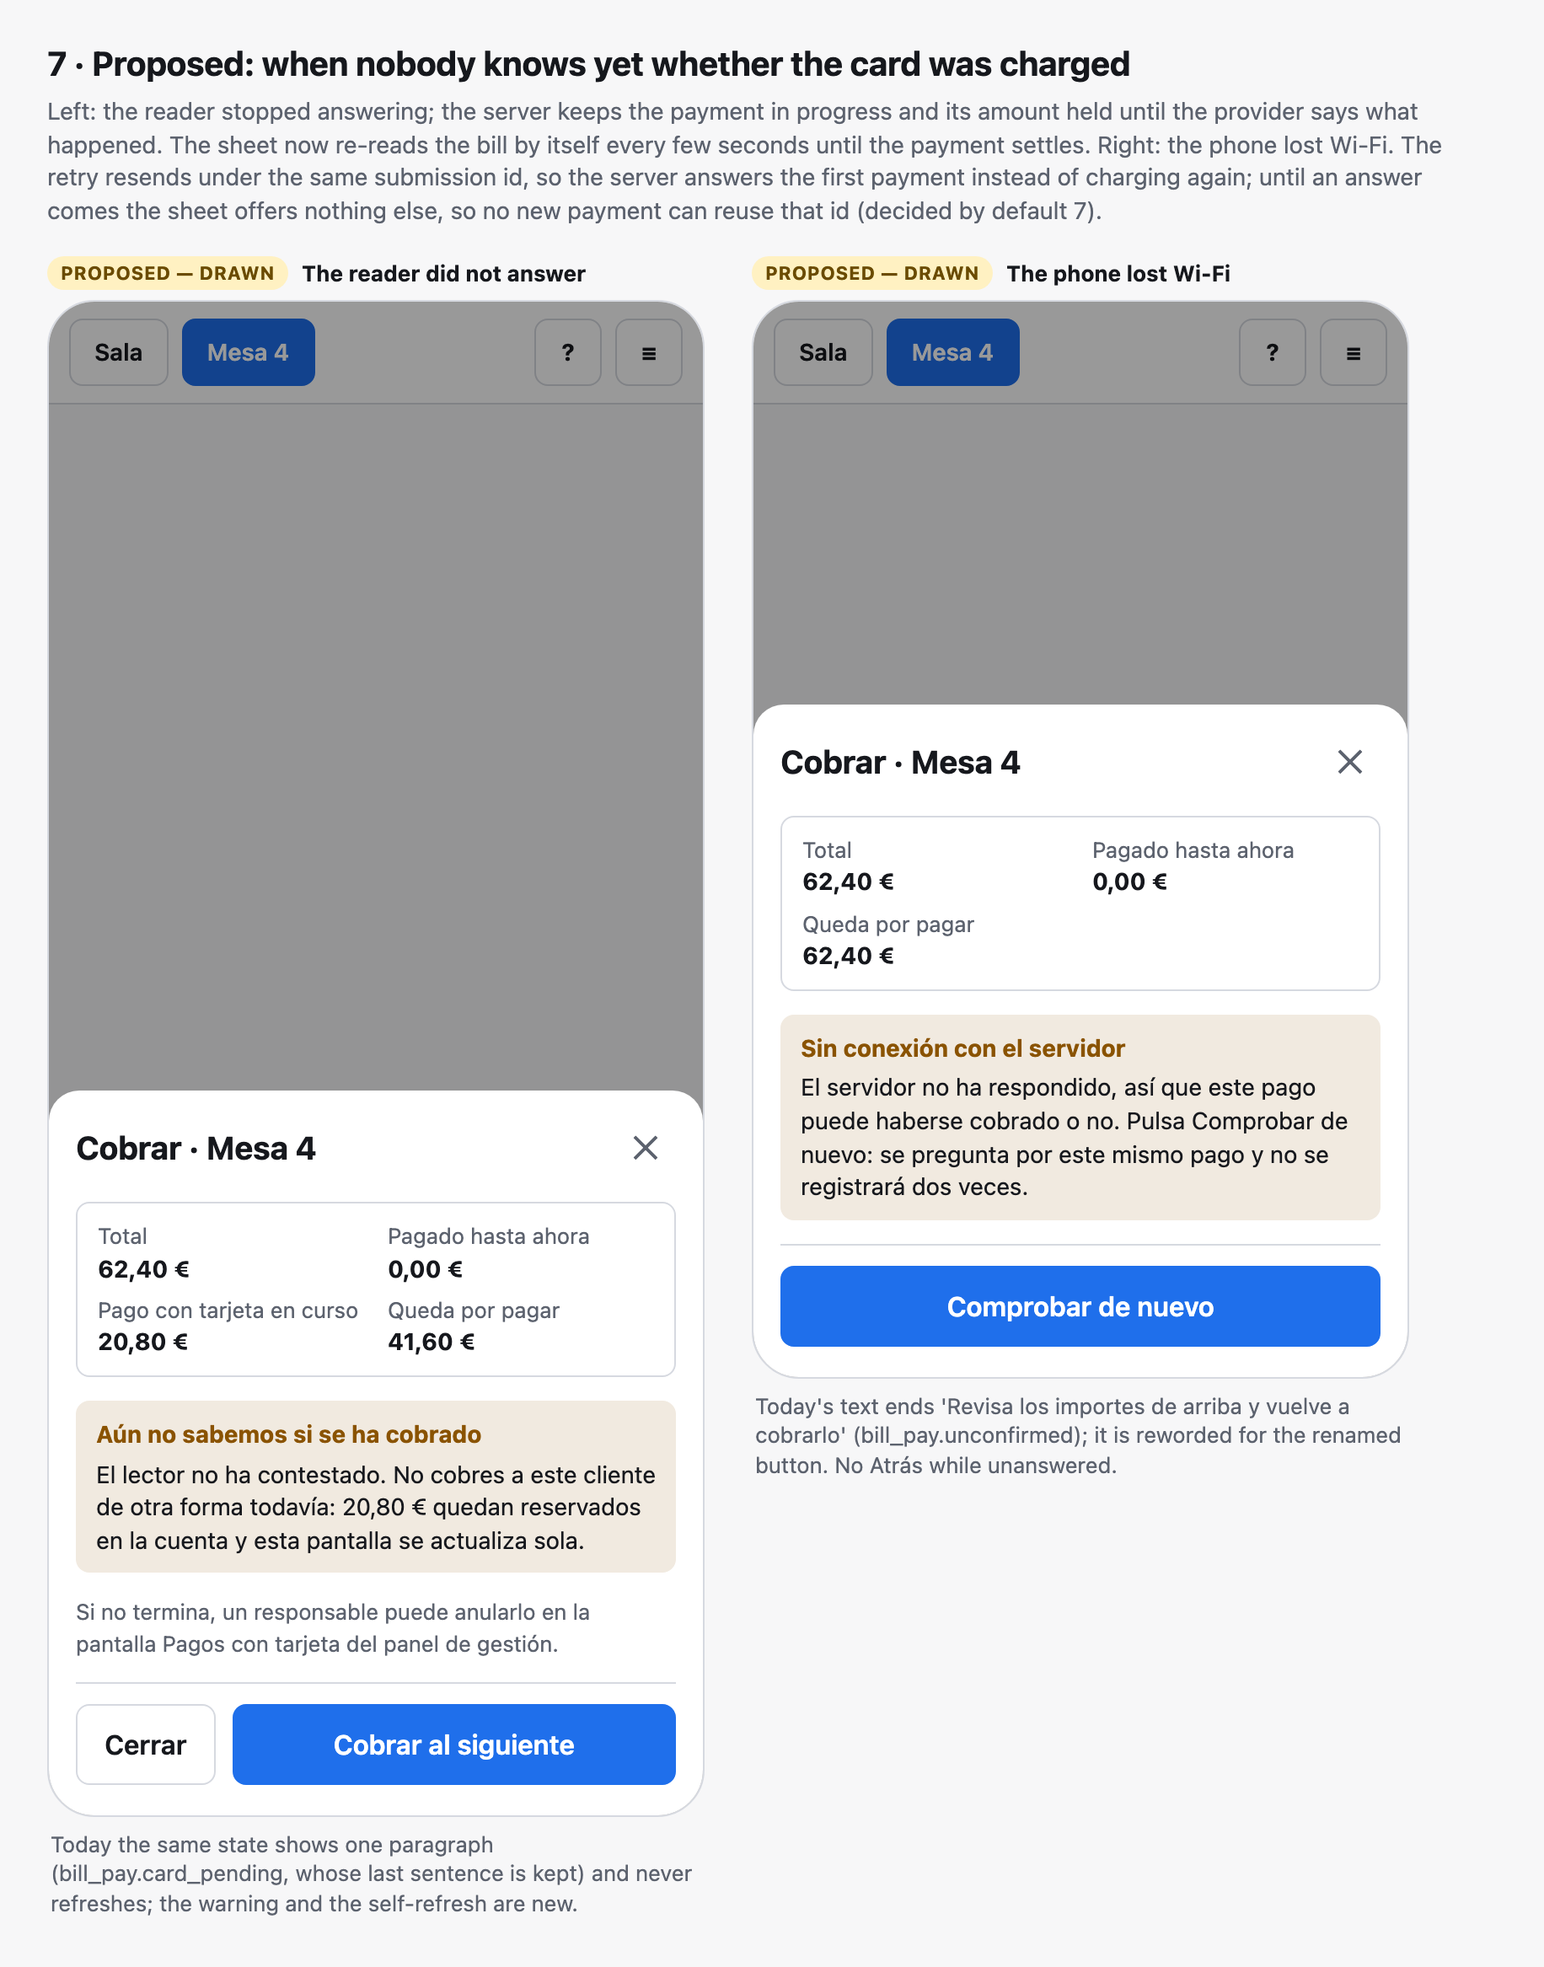
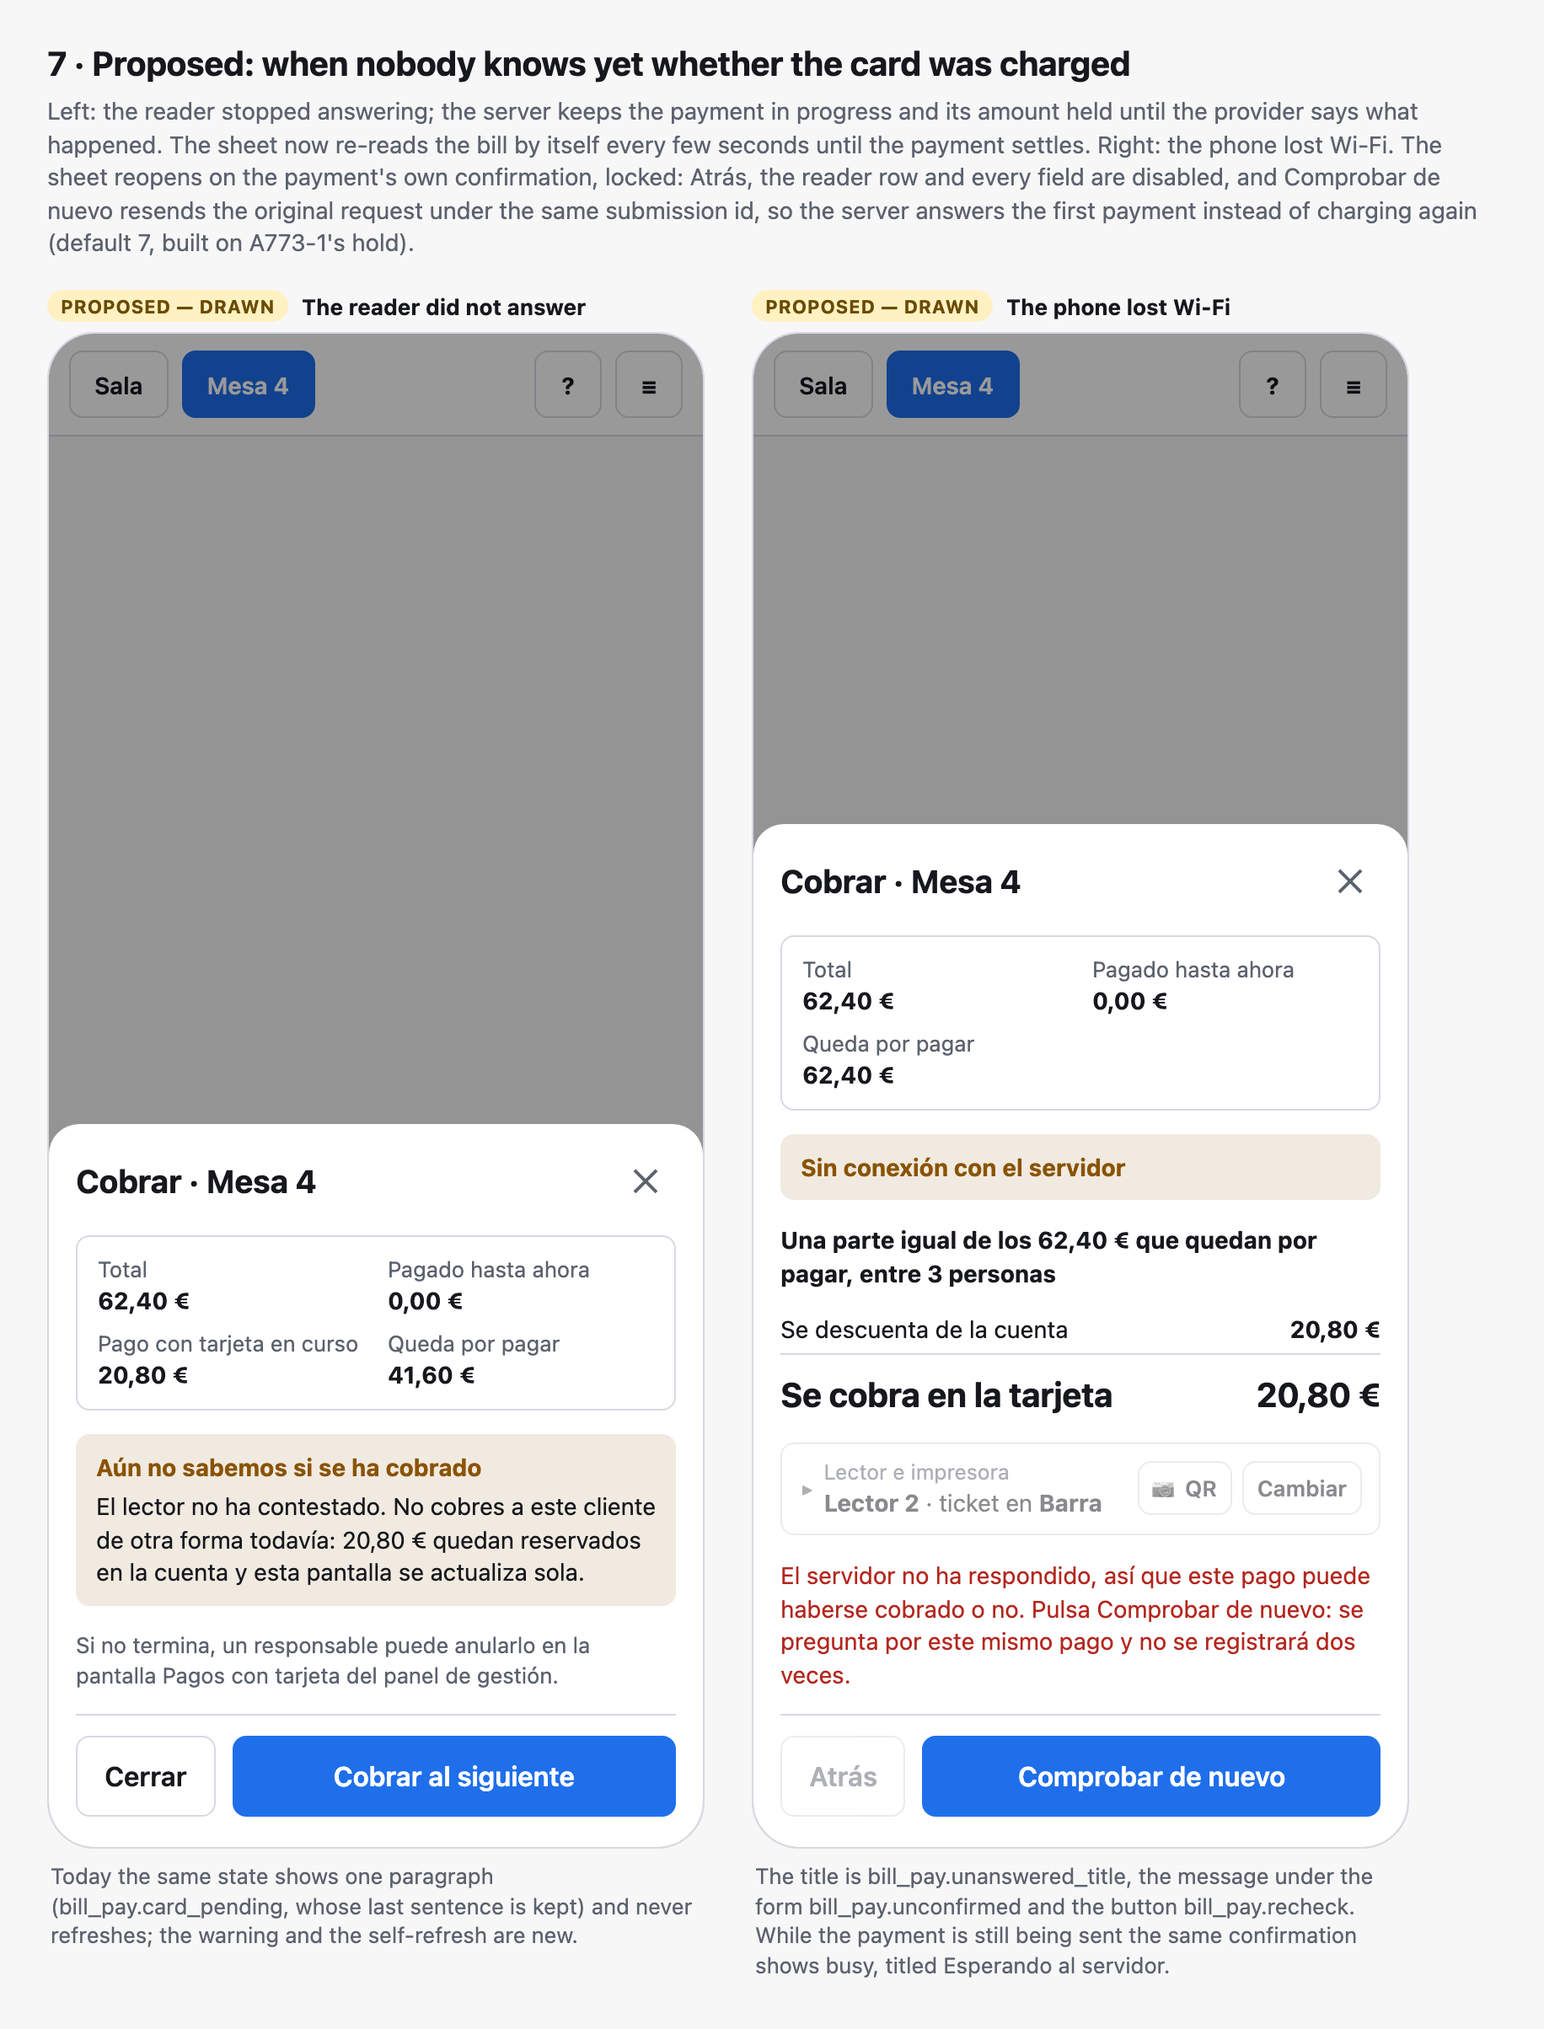
A796 docs: backlog entries left open by the handheld payment build
The Payments and card readers area loses the "Slice 2" entry and gains what A796 leaves open:
Tap-to-Pay waiting on the native-app decision, the printer's name on the paid screen's ticket
line, a check on the OnePlus 13 at the box's address, a user guide for the payment sheet, a
bill not held across phones, the one press of Comprobar de nuevo after a read that shows a
settling payment, and two entries for venues with no fiscal module (one to run first, one a
known limit). The entry about the next identical bill payment is narrowed to a first send
answered with a server error, which still keeps its id without holding the bill.

Also: a dated line in backlog/payments.md, a paragraph on the handheld pay sheet's re-reads in
conventions-ui.md, a dated pointer in the A797 design to A796's default 15, and picture 7
redrawn so its right half shows the locked confirmation that was built.

diff --git a/docs/backlog.md b/docs/backlog.md
@@ -124,8 +124,7 @@ come after the list above:
   [ui-review.md](ui-review.md), and the first physical print since #327.
 - **Smaller, independent pieces**, in no fixed order: refusing requests from a device that is not
   enrolled; Logging Slice 2, the one-touch bug report; the first real Bluetooth pairing at the box
-  through the dashboard; paying at the table from a handheld (Slice 2, designed as A796; every
-  owner question answered, Revision 4; the build is to be planned).
+  through the dashboard.
 - Then the on-prem mirror and failover — slices 3 to 5 of the storage design — then the cloud
   primary, under _Replication, failover and the cloud_.
 
@@ -3879,31 +3878,56 @@ _Formerly A6, and the old Track C's payments items; part of A9._ Detail: [backlo
   auth. Gated on the deli having a Stripe account, which it does not.
 
 
-- **Slice 2 — the handheld NFC/QR link: paying at the table from a handheld (A796).** Design
-  decided (Revision 4, 2026-10-19; no questions open); the build is to be planned as its own item,
-  in the design's §5 slices. The payment form carries the phone's card reader and receipt printer —
-  its Equipment settings, one setting each, which A790 follows too — last chosen on that phone and
-  folded away; the folded row and the charge button name the reader. A QR button on the folded row
-  scans a reader's or a printer's sticker, and the till's existing NFC listener keeps working while
-  the form is open, with the form updating at once. A phone with no usable reader opens the row
-  with the reader empty (a profile with exactly one free reader picks it automatically); a printer
-  that has gone never holds up a payment. Taking another phone's reader from the list still asks:
-  [design](superpowers/specs/2026-10-19-a796-handheld-payments-design.md),
-  [mockups](backlog/mockups/a796-handheld-payments/). Restoring `stripe_on_device` (Tap-to-Pay)
-  remains open; it waits for the one-time native-app decision
-  ([native app capabilities](superpowers/specs/2026-08-30-native-app-capabilities.md), N1/N2).
-  [Detail](backlog/payments.md#slice-2--the-handheld-nfcqr-link)
+- **Restore `stripe_on_device` (Tap-to-Pay) on the handheld** (left open by A796). It waits for
+  the one-time native-app decision
+  ([native app capabilities](superpowers/specs/2026-08-30-native-app-capabilities.md), N1/N2;
+  [A796 design §6](superpowers/specs/2026-10-19-a796-handheld-payments-design.md#6-tap-to-pay)).
 
-- **The next identical bill payment can be answered with an unanswered one** (read, not run; found
-  by A796's review). After a bill payment gets no answer, the till keeps its submission id keyed on
-  the bill and the confirmed request (`submissionFor`, `apps/till/src/state/bill-payment.ts`), so
-  the next identical payment on that bill from this phone reuses it. That covers a contribution of
-  the same amount, the same units of the same line, or the same cash handed over. The server then
-  replays the first payment (`beginBillPayment`, `apps/server/src/bill-payments.ts`): the second
-  guest's payment is never recorded (a card is never asked), and the dialog shows the first payment's state ("Pago cobrado" once
-  it was charged). An equal share escapes only when the number of people left is lowered. Fix:
-  while a payment is unanswered, offer only the resend (A796 design, default 7). First write the
-  failing till case: an unanswered contribution, then an identical one for the next guest.
+- **Name the printer on the paid screen's ticket line** (left open by A796, its default 12). The
+  route that answers the paid screen would have to return the print job's printer, which
+  `readOriginalReceiptPrints` (`apps/server/src/receipt-print.ts:437`) joins but does not hand back.
+
+- **Check paying at the table on the OnePlus 13 at the box's address** (left open by A796). A
+  reader card, a QR scan and an NFC tap from the pay sheet, and the NFC button's permission ask;
+  the browser tests use fakes for all four.
+
+- **A user guide for the till's payment sheet** (left open by A796). No till guide exists yet; the
+  guides under `apps/server/src/guide/` cover dashboard screens only.
+
+- **The next identical bill payment can be answered with one that got a server error** (narrowed
+  by A796). A payment that got no answer, or is still being sent, now holds the bill on its locked
+  confirmation (A773-1, #1897, and A796). What is left: a first send answered with a 5xx or an
+  error with no code keeps its submission without holding the bill (`unansweredAfter`,
+  `apps/till/src/state/bill-payment.ts:185-194`), so if the server did record it, the next
+  identical payment on that bill from this phone reuses its id (`submissionFor`, same file, line
+  159) and the server replays the first (`beginBillPayment`, `apps/server/src/bill-payments.ts`):
+  the second guest's payment is never recorded. A796's plan ran the scratch case (a contribution
+  refused `server.internal` with status 502 left the dialog unlocked) and chose not to hold the
+  bill, because a server that kept failing would hold it for good (plan, decision 1, B5).
+
+- **A796 does not hold a bill across phones while a payment is out.** The hold is the phone's own:
+  "no new payment … can be started on that bill from this phone" (A796 design §4, "The phone loses
+  Wi-Fi mid-payment", and default 7). The server is unchanged, so another phone can start a
+  payment on the same bill meanwhile.
+
+- **A payment whose read shows it settled the bill needs one press of Comprobar de nuevo to show
+  the ticket.** A bill read that lists a held payment frees the bill, except when that payment
+  settled it: the locked confirmation stays, and its Comprobar de nuevo replays the payment and
+  shows the ticket (`apps/till/src/till-app-bill-payments.test.ts`, "keeps the locked
+  confirmation when the payment settled the bill, and Comprobar de nuevo shows the ticket").
+
+- **Check first: on a venue with no fiscal module, replaying a settled bill may throw** (read, not
+  run; found by A796's Task 23 review). `readSettledTicket`, which rebuilds the ticket for a
+  replay, throws when the backend has no filed record (`apps/server/src/till-sale.ts:840-846`),
+  and the no-fiscal backend's `filedReceiptFor` always answers `undefined`
+  (`packages/fiscal-none/src/backend.ts:67`). First run a replay on such a venue to see whether it
+  is reached.
+
+- **On a venue with no fiscal module, a handheld shows the ticket view after a presented bill is
+  paid, not the paid screen** (known limit of A796; read, not run). The paid screen shows only for
+  an `F2` result (`apps/till/src/till-app.ts:16204`), and the presented path takes its invoice
+  type from `readReceiptIssuer`, which returns none when the backend has no filed record
+  (`apps/server/src/receipt-issuer.ts:8-9`).
 
 - **Loose ends left by W102 (NFC and equipment labels).**
   - **Check NFC pick-up on the box's address.** On the OnePlus 13, grant NFC at
@@ -6832,7 +6856,7 @@ partial scope; the detail for a live thread is in its area.
 | 1   | Design system                | `@waitron/ui` token layer + primitives (`--wt-*`); brand assets (#284); the till web-app manifest and its icons; the dashboard shell restyle — collapsible nav, account menu, profile modal (#333)                                                                                                                                                                                                                                | sorting `wt-combobox` options (_Users, sign-in and the dashboard shell_)                                                                                                      |
 | 2   | Sales spine                  | Immutable hash-chained sales, per-node series, catalogue, the one-taxpayer model                                                                                                                                                                                                                                                                                                                                                  | —                                                                                                                                                                             |
 | 3   | Fiscal layer                 | Verifactu lib + `FiscalBackend`; settlement, R5 rectificativas, F3 canje, invoice-first; fiscal is a module (`fiscal-verifactu`, `fiscal-none`)                                                                                                                                                                                                                                                                                   | F3 asesor/XSD confirmations; the owner's real-certificate checks after A795 lands (A888); cert distribution to a promoted node; a foreign business customer's identifier type (A1a)      |
-| 4   | Payment layer                | `PaymentProvider` + Stripe Terminal, manual card, integrated Stripe, Mode-3 webhook, SumUp Cloud API (#309); dashboard provider/reader configuration and adoption (#323, #329)                                                                                                                                                                                                                                                    | webhook `recordSale` hand-off; reconcile remediation UI; the handheld NFC/QR link (_Payments and card readers_)                                                               |
+| 4   | Payment layer                | `PaymentProvider` + Stripe Terminal, manual card, integrated Stripe, Mode-3 webhook, SumUp Cloud API (#309); dashboard provider/reader configuration and adoption (#323, #329)                                                                                                                                                                                                                                                    | webhook `recordSale` hand-off; reconcile remediation UI; Tap-to-Pay on the handheld (_Payments and card readers_)                                                             |
 | 5   | Identity                     | persons/sessions, PIN (+ wrong-PIN back-off: per device at sign-in and for override PINs), `authorize()`, roles/permissions, passkeys, email-first dashboard login, emailed invitations and password resets, encrypted TOTP and recovery codes, user admin (#298, #328); a one-time passkey offer on first password sign-in (#347); identity state replicates to a standby                                                        | admin-editable roles; security-change emails; mid-shift-suspension enforce; discount gate; till-refund enforce                                                                |
 | 6   | Locations                    | provision-a-sellable-venue (`waitron-provision venue`); departments, zones and menus (#297)                                                                                                                                                                                                                                                                                                                                       | multiple-location creation/editing/deactivation; then location-scope the by-id verb family                                                                                    |
 | 7   | Counter POS                  | walk-up cash, park/retrieve, manual + integrated card, prepare & collect, receipt configuration, receipt/drawer printing, cash-drawer authorization — operable end to end                                                                                                                                                                                                                                                        | —                                                                                                                                                                             |

diff --git a/docs/developers/conventions-ui.md b/docs/developers/conventions-ui.md
@@ -1530,6 +1530,17 @@ changes.
 Nothing guards a new field: a new `/api/till` field moves the revision, but reaches an open till
 only once someone adds it to `#applyVenueSetup`.
 
+**The handheld's pay sheet.** Opening the sheet on a handheld reads the phone's equipment again,
+for an open bill and for a presented one; while the sheet shows a card payment of its own that the
+reader has not answered, it reads the bill again every 5 seconds (`PENDING_REREAD_MS`,
+`apps/till/src/till-app.ts`), never with a read still out, and stops once a read shows the card
+received or no longer lists it. Pinned by `apps/till/src/till-app-handheld-pay.test.ts`: the
+open-time read under "till-app: paying a table from a handheld" and "a presented bill on a
+handheld", the 5-second read under "till-app: a card the reader has not answered, on a handheld".
+Neither read counts as activity for the idle logout: the till notes activity only from a
+`pointerdown` or `keydown` on the app (`#onInteraction`, `apps/till/src/till-app.ts`). That is
+read, not tested: no case in that file checks the idle timer.
+
 
 ## Public secure-connection repair
 

diff --git a/docs/superpowers/specs/2026-10-18-a797-device-screens-design.md b/docs/superpowers/specs/2026-10-18-a797-device-screens-design.md
@@ -72,6 +72,10 @@ phone only by width (`apps/till/src/layout.ts:29-31`) (read). The seeded handhel
 may take orders, take hand-keyed card payments, prepare, hand over and clock in; it may not take cash,
 use an integrated card reader or print receipts; the tablet profile has no capabilities and is not
 seeded (`packages/layouts/src/device-profile.ts:110-117`, `:132-150`) (read).
+_2026-10-20: superseded for Móvil by A796's default 15 — Móvil takes reader cards and cash and
+prints receipts, never the drawer
+([2026-10-19-a796-handheld-payments-design.md](2026-10-19-a796-handheld-payments-design.md), §8);
+this paragraph is left as it was written._
 
 ### 2.2 The top bar
 

diff --git a/docs/backlog/payments.md b/docs/backlog/payments.md
@@ -187,6 +187,10 @@ scan button on the folded row and the till's background NFC pick-up updating the
 none is open, and the build is to be planned as its own item:
 [2026-10-19-a796-handheld-payments-design.md](../superpowers/specs/2026-10-19-a796-handheld-payments-design.md)._
 
+_2026-10-20: the handheld payment flow is built as A796, on branch `feat/a796-handheld-payments`
+(pull request to follow). What it left open, Tap-to-Pay included, is in
+[backlog.md](../backlog.md), _Payments and card readers_._
+
 ## Check NFC pick-up on the box's address
 
 On the OnePlus 13, open the installed till at `https://waitron.local`. In Equipment, press
